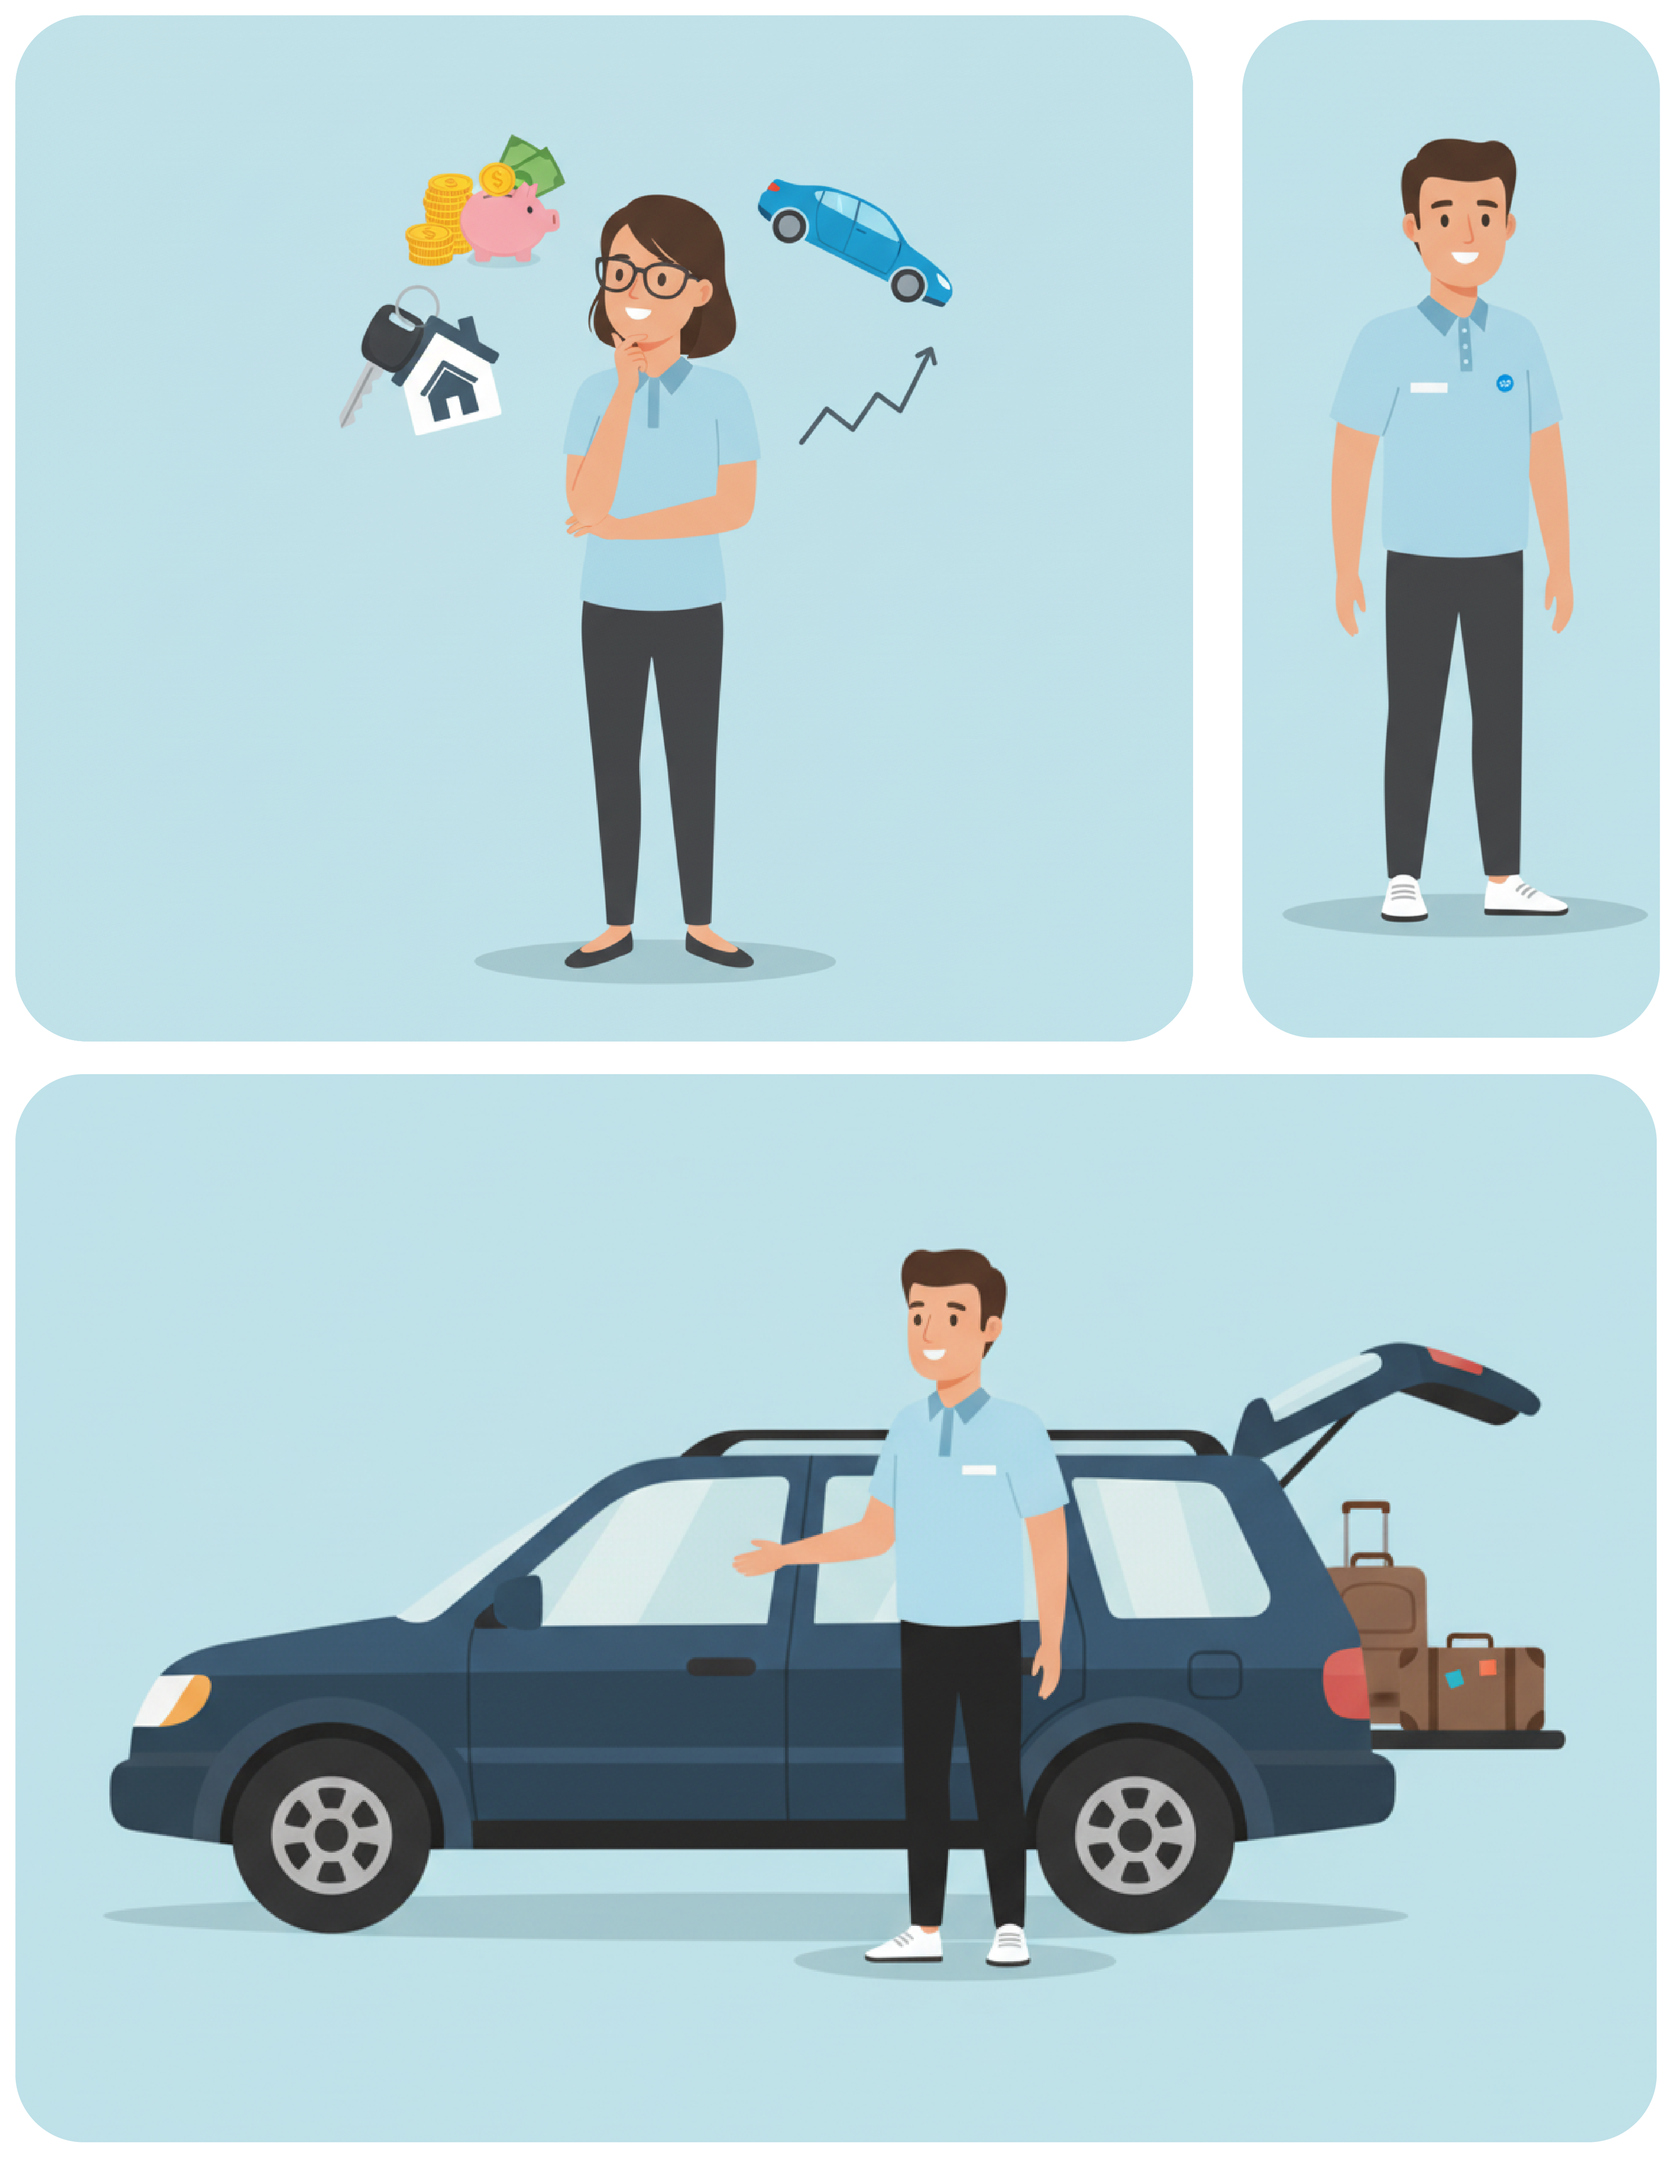
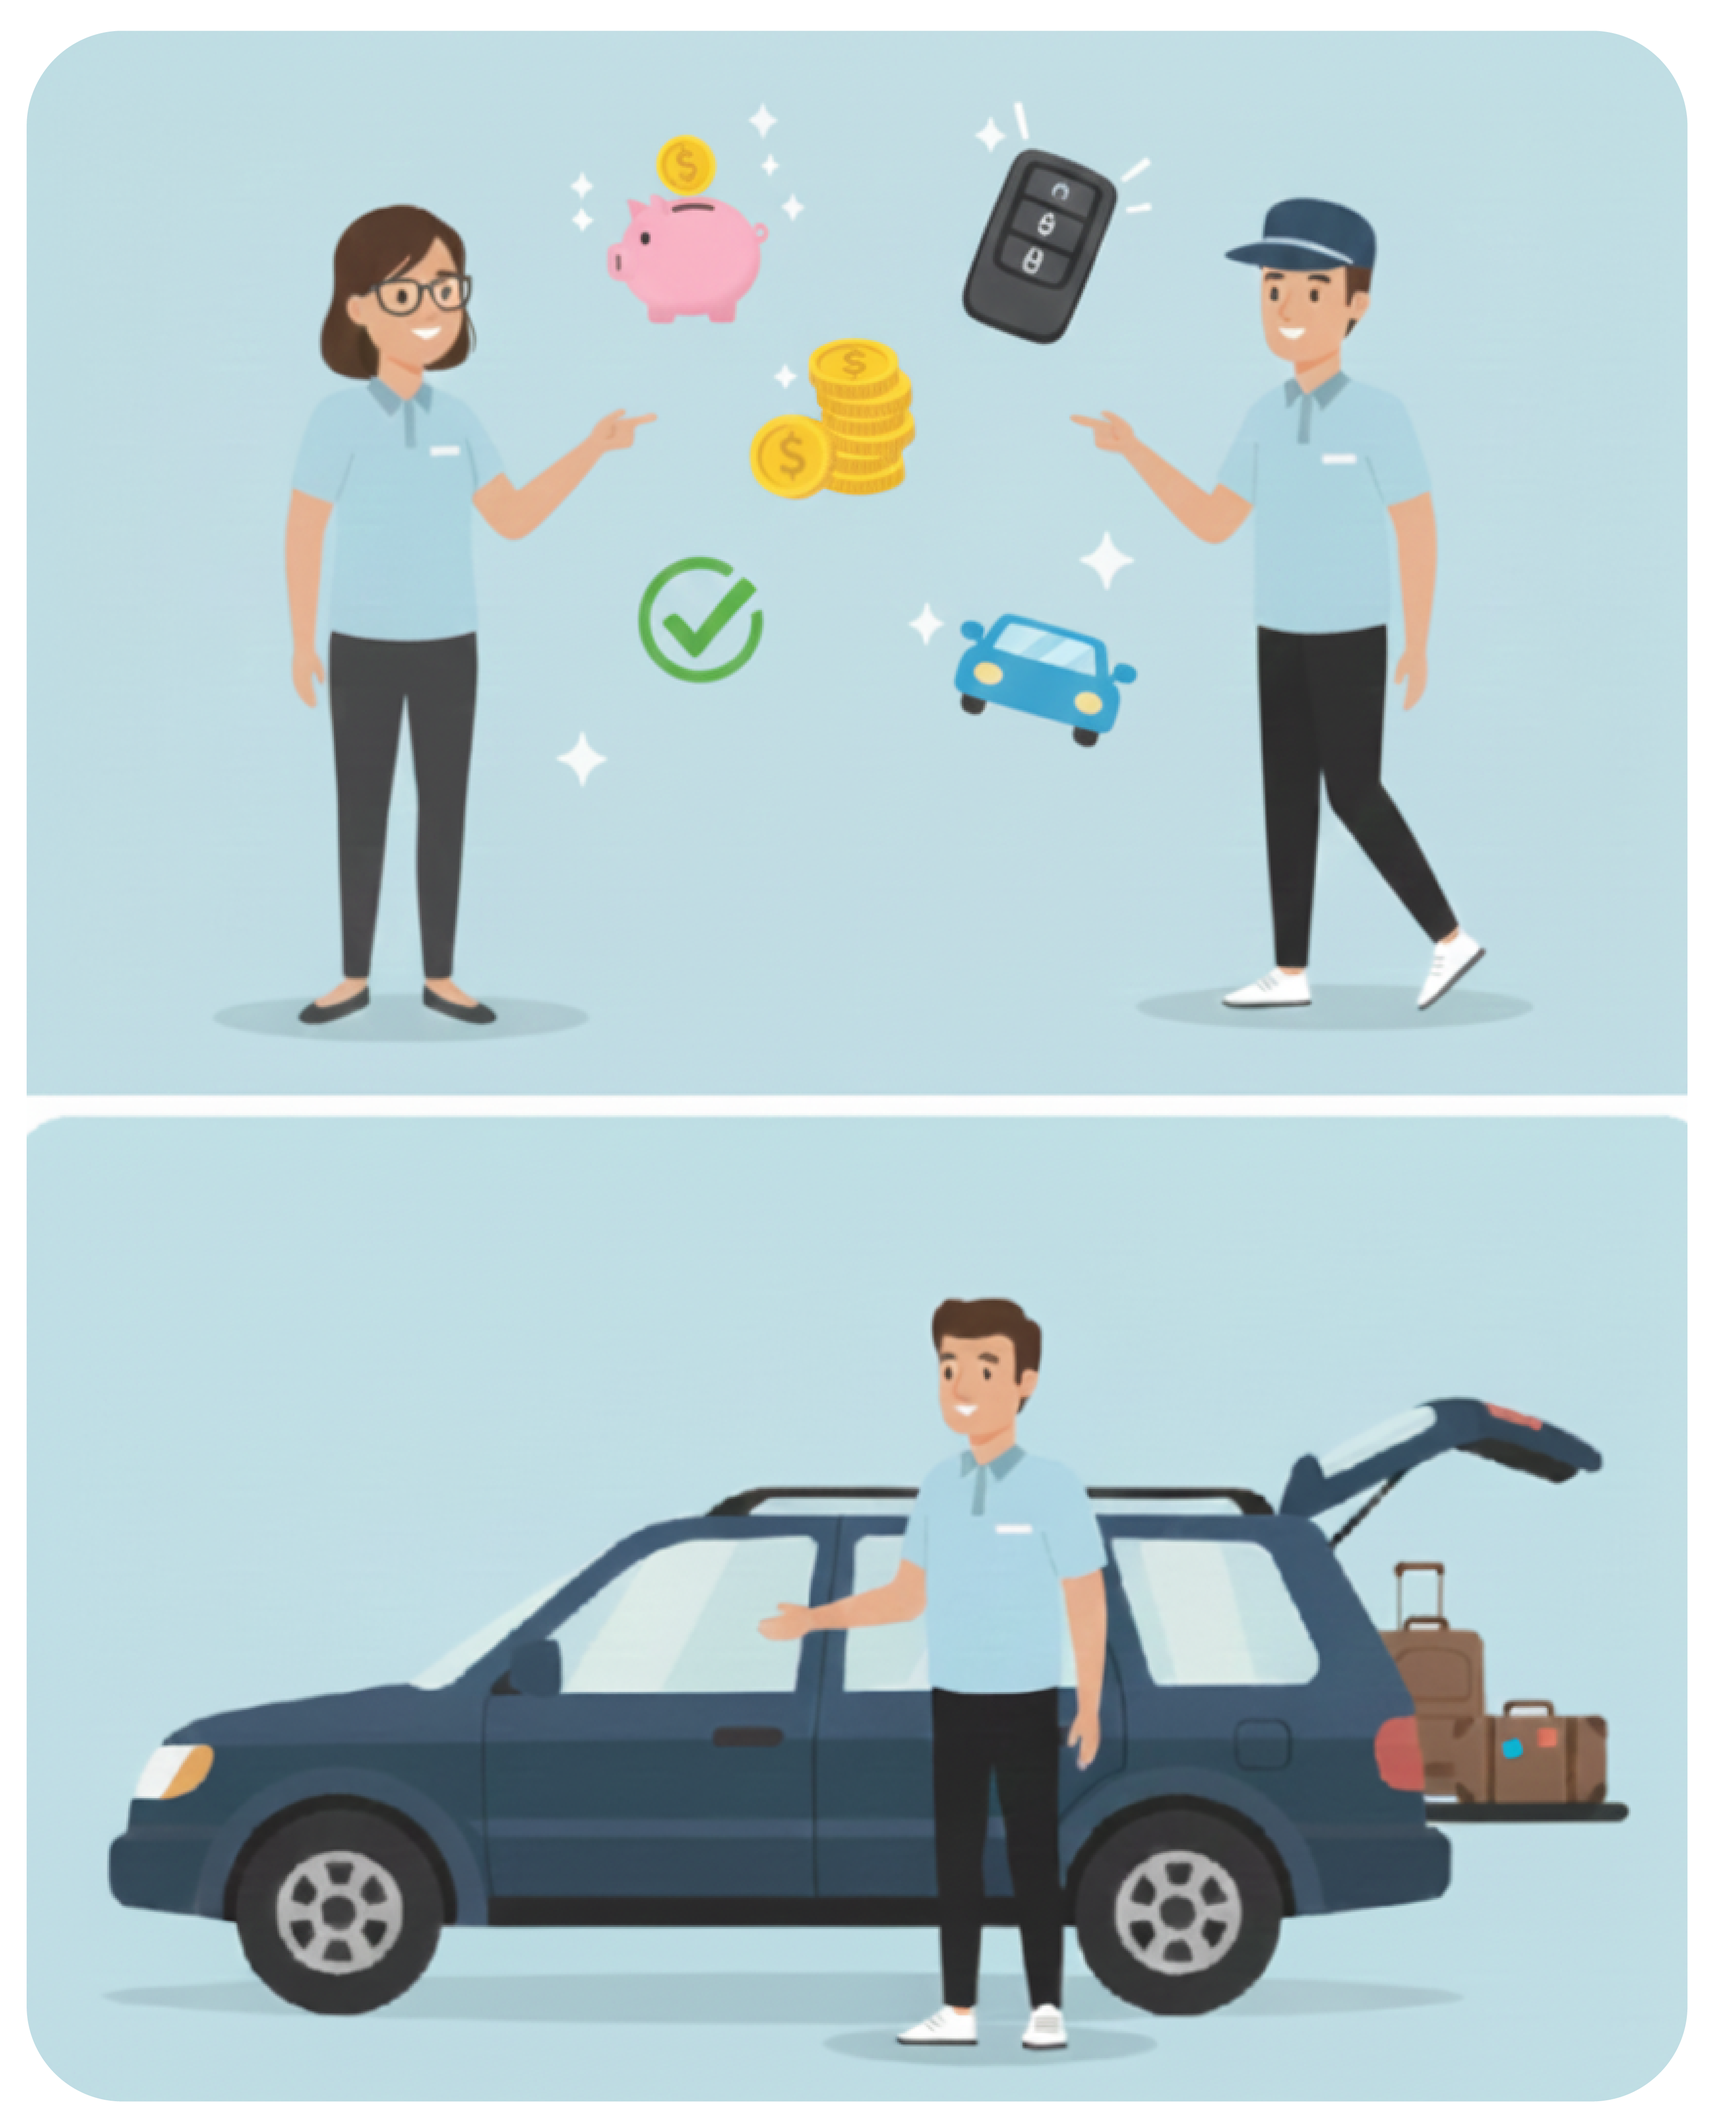
Add files via upload

diff --git a/index.html b/index.html
@@ -15,12 +15,16 @@
 </head>
 <body>
 
+  <div class="info-tab">
+  <a href="#formulario"><span class="info-tab-text">💰 Ingresos desde el primer día</span></a>
+</div>
+
 <!-- Header / Nav -->
     <header>
         <nav class="navbar section-content">
             <a href="#" class="nav-logo">
                 <h2 class="logo-text">
-                    <img class="logoimg" src="img/logomichifer.png" alt="">
+                    <img class="logoimg" src="img/logo.png" alt="">
                 </h2>
             </a>        
                 
@@ -35,16 +39,12 @@
                     data-section="header" data-value="about-menu">¿Por qué unirte?</a>
                 </li>
                 <li class="nav-item">
-                    <a href="#beneficios" class="nav-link"
-                    data-section="header" data-value="services-menu">Beneficios</a>
+                    <a href="#formulario" class="nav-link"
+                    data-section="header" data-value="contact-menu">Aplica Ahora</a>
                 </li>
                 <li class="nav-item">
                     <a href="#requisitos" class="nav-link"
                     data-section="header" data-value="gallery-menu">Requisitos</a>
-                </li>
-                <li class="nav-item">
-                    <a href="#formulario" class="nav-link"
-                    data-section="header" data-value="contact-menu">Aplica Ahora</a>
                 </li>
                 <li class="nav-item">
                     <a href="#contactus" class="nav-link"
@@ -123,6 +123,16 @@
     </div>
   </section>
 
+
+  <!-- Banner garantia -->
+  <section class="banner-income">
+  <div class="container banner-income-content">
+      <h2 class="banner-title">💰INGRESOS GARANTIZADOS DESDE EL PRIMER DÍA 💰</h2>
+      <p class="banner-text"></p>
+  </div>
+</section>
+
+
       <!-- Testimonial section -->
 <section class="testimonials-section" id="testimonials">
         <h2 class="about-title">Testimonials</h2>
@@ -132,23 +142,27 @@
                     <ul class="testimonials-list swiper-wrapper">
                         <li class="testimonial swiper-slide">
                             <img src="img/client-fe.png" alt="Client" class="user-image">
-                            <h3 class="name">Persona 1</h3>
-                            <i class="feedback"></i>
+                            <h3 class="name">Liliana C</h3>
+                            <i class="feedback">Con las otras plataformas ganaba lo justo para el día a día,<br> 
+                              pero no lograba ahorrar. Con MiChofer, haciendo prácticamente los mismos viajes 
+                              y pagando menos comisión, ahora sí puedo generar el ahorro que me hacía falta.</i>
                         </li>
                         <li class="testimonial swiper-slide">
                             <img src="img/client-ma.png" alt="Client" class="user-image">
-                            <h3 class="name">Persona 2</h3>
-                            <i class="feedback"></i>
+                            <h3 class="name">Pedro B</h3>
+                            <i class="feedback">Tengo una SUV y los viajes cortos no eran rentables.<br>
+                              Con VIP Time Rentals trabajo por hora y ahora realmente me conviene.</i>
                         </li>
                         <li class="testimonial swiper-slide">
                             <img src="img/client-fe.png" alt="Client" class="user-image">
-                            <h3 class="name">Persona 3</h3>
-                            <i class="feedback"></i>
+                            <h3 class="name">Sara O</h3>
+                            <i class="feedback">Por fin siento un respiro. MiChofer me deja más ganancias y ahora puedo cubrir mis gastos sin problemas</i>
                         </li>
                         <li class="testimonial swiper-slide">
                             <img src="img/client-ma.png" alt="Client" class="user-image">
-                            <h3 class="name">Persona 4</h3>
-                            <i class="feedback"></i>
+                            <h3 class="name">Enrique A</h3>
+                            <i class="feedback">MiChofer me motiva a dar un mejor servicio. Al principio se me hacía raro abrir la puerta a los clientes, 
+                              pero las propinas que recibo me inspiran a mejorar en cada viaje.</i>
                         </li>
                         
                     </ul>
@@ -163,7 +177,7 @@
 
  
 
-  <!-- Services section -->
+  <!-- Services section 
     <section class="services-section" id="services">
         <h2 class="apply-title"
         data-section="our-services" data-value="os-title">¿Por qué unirte a nuestra comunidad?</h2>
@@ -189,13 +203,13 @@
             </ul>
         </div>
     </section>
-
+    -->
 
   <!-- Formulario -->
   <section class="apply" id="formulario">
     <div class="container">
       <h2 class="apply-title">¡Únete ya!</h2>
-      <p class="apply-subt">Déjanos tu información de contacto y te llamaremos en las próximas 24h. 
+      <p class="apply-subt"><span class="formbold">💰 Ingresos desde el primer día 💰</span><br> Déjanos tu información de contacto y te llamaremos en las próximas 24h. 
       </p>
       <form action="https://formbold.com/s/oP5yM" method="POST" class="form">
         <label for="nombre">Nombre completo</label>

diff --git a/style.css b/style.css
@@ -107,7 +107,8 @@ header {
 }
 
 .nav-logo img {
-  width: 80px;
+  width: 100px;
+  border-radius: var(--border-radius-circle);
 }
 
 /* MENÚ DESKTOP */
@@ -138,6 +139,41 @@ header {
   color: white;
   font-size: 2rem;
 }
+
+/* --------------------------------------------------
+   PESTAÑA INFORMATIVA IZQUIERDA
+-------------------------------------------------- */
+
+.info-tab {
+  position: fixed;
+  bottom: 80px; 
+  left: 20px; /* Oculta inicialmente hacia la izquierda */
+  width: 420px;
+  padding: 15px 20px;
+  background: #4a6ef5;
+  color: white;
+  font-weight: bold;
+  font-size: 1.2rem;
+  border-radius: 13px 13px 13px 0;
+  box-shadow: 3px 3px 10px rgba(0,0,0,0.25);
+  z-index: 9999;
+  cursor: pointer;
+  transition: 0.4s ease;
+}
+
+/* Texto dentro */
+.info-tab-text {
+  display: block;
+  white-space: nowrap;
+  color: white;
+  font-size: 1.5rem;
+}
+
+/* Hover para mostrarla */
+.info-tab:hover {
+  left: 0;
+}
+
 
 /* --------------------------------------------------
    HERO
@@ -248,7 +284,60 @@ header {
   transform: translateY(-5px);
 }
 
-/* Testimonials sectio styling */
+/* --------------------------------------------------
+   BANNER INGRESOS – ANIMACIÓN LLAMATIVA
+-------------------------------------------------- */
+
+.banner-income {
+  background: linear-gradient(90deg, #4a6ef5, #5575a1, #4a6ef5);
+  padding: 60px 20px;
+  text-align: center;
+  color: white;
+  animation: bannerSlide 8s infinite linear;
+  box-shadow: 0 5px 20px rgba(0,0,0,0.15);
+}
+
+.banner-income-content {
+  max-width: 900px;
+  margin: auto;
+  animation: fadeIn 2s ease both;
+}
+
+.banner-title {
+  font-size: 2.8rem;
+  font-weight: var(--font-weight-bold);
+  margin-bottom: 15px;
+}
+
+.banner-text {
+  font-size: 1.4rem;
+  font-weight: var(--font-weight-medium);
+}
+
+/* Animación efecto “banner en movimiento” */
+@keyframes bannerSlide {
+  0% { background-position: 0% 50%; }
+  100% { background-position: 200% 50%; }
+}
+
+/* Animación suave de aparición */
+@keyframes fadeIn {
+  from { opacity: 0; transform: translateY(20px); }
+  to   { opacity: 1; transform: translateY(0); }
+}
+
+/* Responsive */
+@media (max-width: 600px) {
+  .banner-title {
+    font-size: 2rem;
+  }
+  .banner-text {
+    font-size: 1.1rem;
+  }
+}
+
+
+/* Testimonials section styling */
 
 .testimonials-section {
     width: 100%;
@@ -327,6 +416,41 @@ header {
   text-align: center;
   margin-bottom: 20px;
 }
+
+/* Ocultar lista por defecto */
+.requirements ul {
+  max-height: 0;
+  overflow: hidden;
+  transition: max-height 0.5s ease;
+}
+
+/* Cuando tiene la clase "open" se despliega */
+.requirements ul.open {
+  max-height: 600px; /* Ajusta según el contenido */
+}
+
+/* Estilo del título interactivo */
+.requirements-title {
+  cursor: pointer;
+  position: relative;
+  padding-right: 30px;
+}
+
+/* Flecha indicadora */
+.requirements-title::after {
+  content: "▼";
+  font-size: 1.6rem;
+  position: absolute;
+  right: 0;
+  top: 10px;
+  transition: transform 0.3s ease;
+}
+
+/* Flecha girada cuando está abierta */
+.requirements-title.active::after {
+  transform: rotate(180deg);
+}
+
 
 /* --------------------------------------------------
    Mensaje Final
@@ -416,6 +540,7 @@ header {
   color: white;
   padding: 20px;
   text-align: center;
+  height: 190px;
 }
 
 /* --------------------------------------------------
@@ -484,6 +609,14 @@ header {
   .grid-container {
     grid-template-columns: 1fr;
   }
+
+    .info-tab {
+    width: 270px;
+  }
+
+  .info-tab-text {
+    font-size: medium;
+  }
 }
 
 /* MOBILE */
@@ -500,4 +633,5 @@ header {
   .img-hero {
     max-width: 320px;
   }
+
 }

diff --git a/script.js b/script.js
@@ -54,3 +54,63 @@ const swiper = new Swiper('.slider-wrapper', {
     },
   }
 });
+
+// Animación del fondo del banner usando JavaScript
+document.addEventListener("DOMContentLoaded", () => {
+  // 1. Seleccionamos el banner
+  const banner = document.querySelector(".banner-income");
+
+  // Si no existe, salimos para que no dé error
+  if (!banner) {
+    console.warn("No se encontró ningún elemento con la clase .banner-income");
+    return;
+  }
+
+  // 2. Configuramos el fondo desde JS (sin tocar tu CSS en el archivo)
+  banner.style.backgroundImage = "linear-gradient(90deg, #4a6ef5, #5575a1, #4a6ef5)";
+  banner.style.backgroundSize = "400% 400%";   // Muy importante para que el movimiento se note
+  banner.style.backgroundRepeat = "repeat";
+
+  // 3. Animación con requestAnimationFrame
+  let pos = 0;
+
+  function animateBackground() {
+    pos += 0.1; // velocidad (sube para más rápido, baja para más lento)
+
+    // Movemos el fondo horizontalmente
+    banner.style.backgroundPosition = pos + "% 50%";
+
+    // Reseteamos para que no crezca infinito
+    if (pos > 400) {
+      pos = 0;
+    }
+
+    requestAnimationFrame(animateBackground);
+  }
+
+  // Iniciamos animación
+  animateBackground();
+});
+
+
+// According
+
+document.addEventListener("DOMContentLoaded", () => {
+  // Selecciona todos los bloques de requisitos
+  const sections = document.querySelectorAll(".requirements");
+
+  sections.forEach(section => {
+    const title = section.querySelector(".requirements-title");
+    const list = section.querySelector("ul");
+
+    // Estado inicial cerrado
+    list.classList.remove("open");
+
+    // Evento al hacer clic en el título
+    title.addEventListener("click", () => {
+      list.classList.toggle("open");
+      title.classList.toggle("active");
+    });
+  });
+});
+
